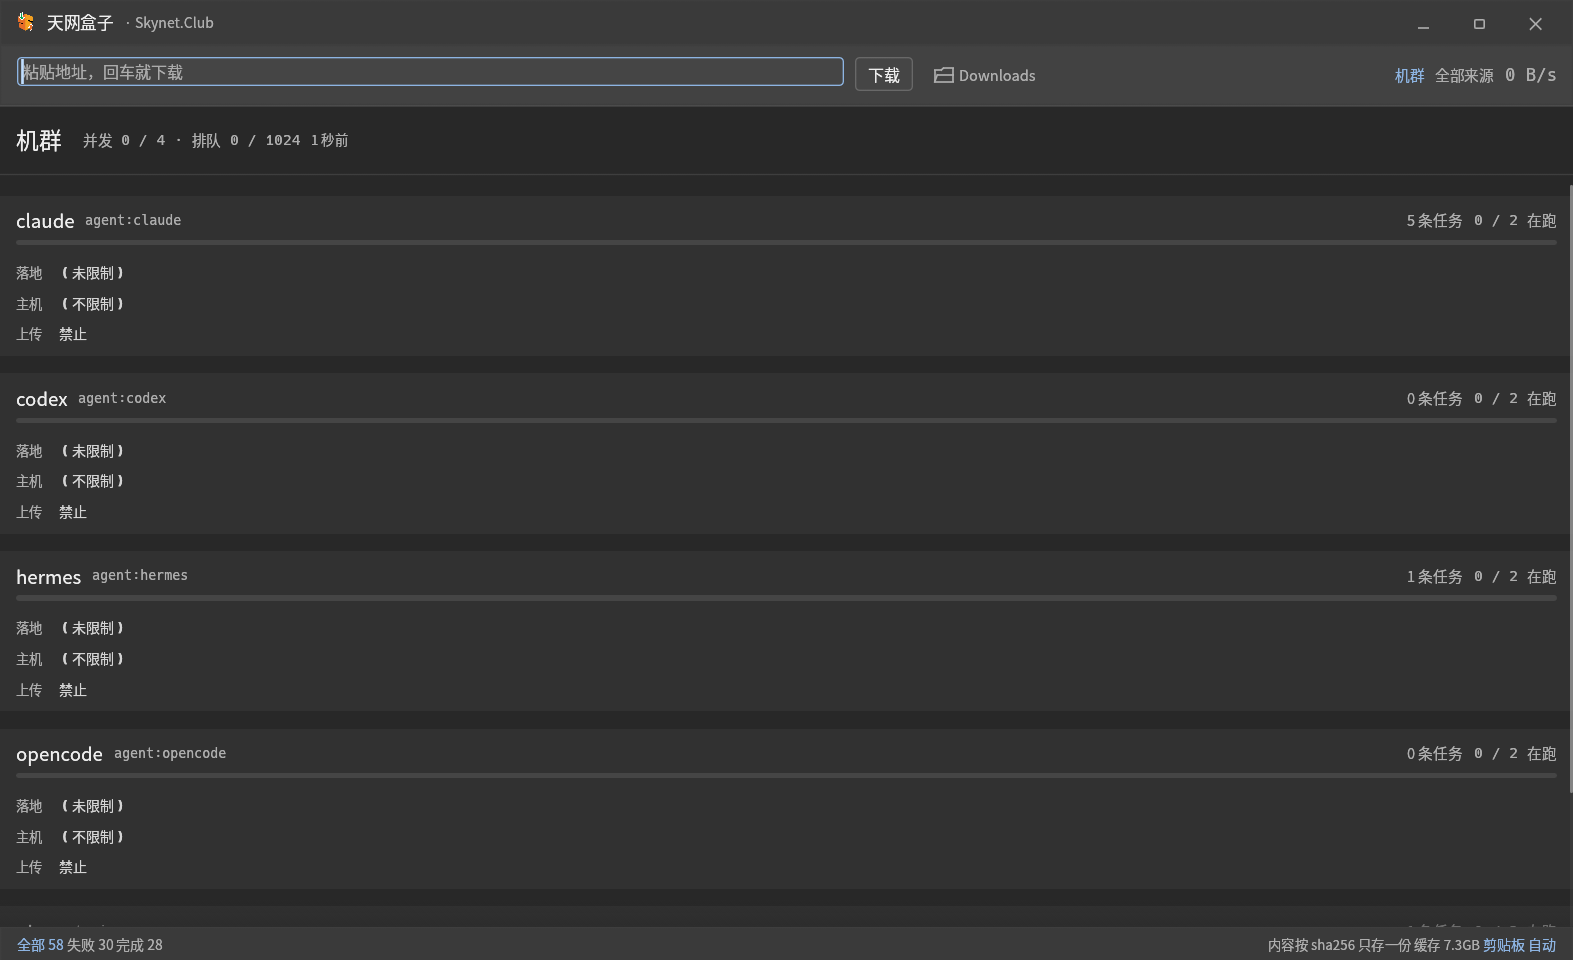
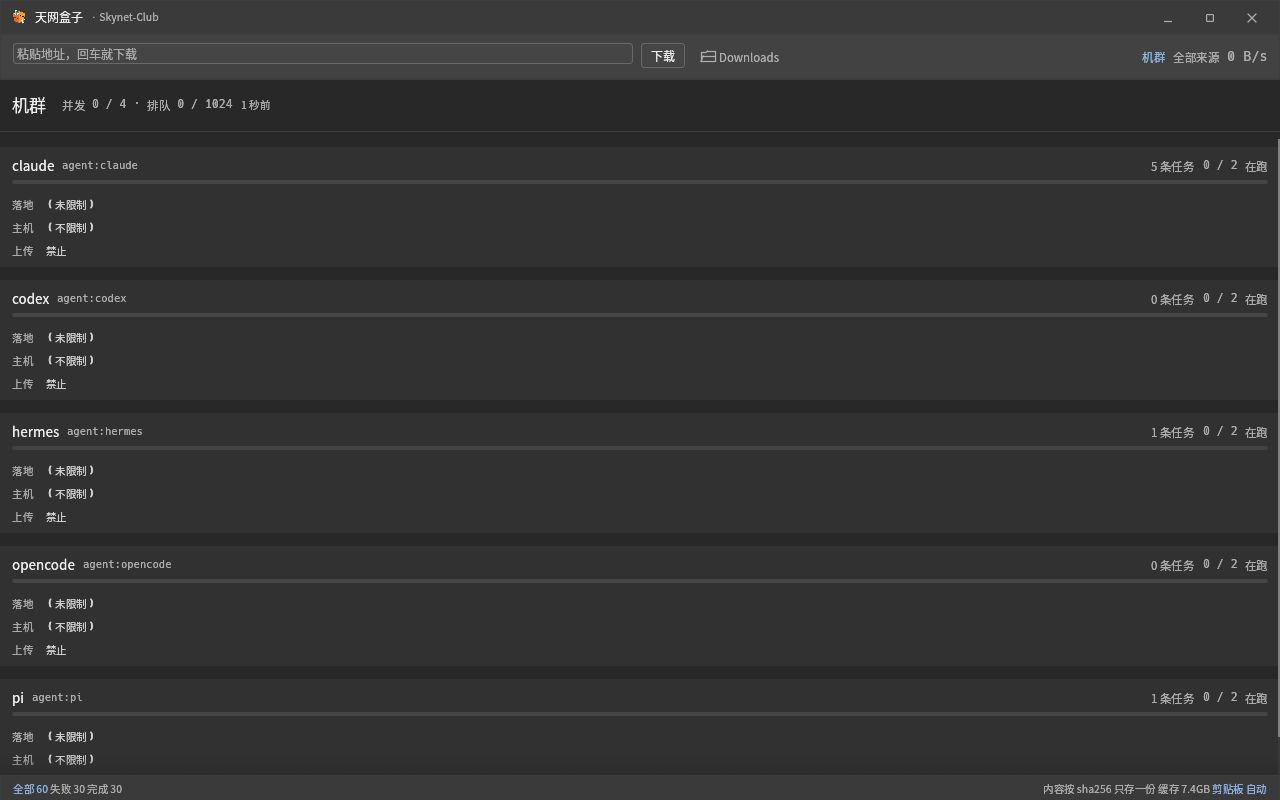
Rebrand the product as Skynet Data Box with pending Skynet-Club attribution

diff --git a/src/gui/mod.rs b/src/gui/mod.rs
@@ -799,7 +799,7 @@ impl App {
                             // 一旦可选中，egui 的文本选择逻辑就会在悬停时把光标设成 I-beam，
                             // 手形光标会被它盖掉。一个外链本来也不需要能选文字。
                             egui::Label::new(
-                                RichText::new("· Skynet.Club")
+                                RichText::new("· Skynet-Club")
                                     .size(theme::T_MICRO)
                                     .color(if hot { theme::TEXT } else { theme::FAINT }),
                             )
@@ -808,7 +808,7 @@ impl App {
                         )
                         // 官方 API，比自己 set_cursor_icon 更靠得住：交给 egui 的交互系统统一裁决
                         .on_hover_cursor(egui::CursorIcon::PointingHand)
-                        .on_hover_text("打开 skynet.club");
+                        .on_hover_text("打开 Skynet-Club GitHub");
                     // 光标要**每帧**设。egui 每帧都会把光标重置成默认值，
                     // 只在“刚悬停”那一帧设一次，下一秒就退回文本光标了。
                     if resp.hovered() {
@@ -819,7 +819,7 @@ impl App {
                         ui.ctx().request_repaint();
                     }
                     if resp.clicked() {
-                        open_url("https://skynet.club");
+                        open_url("https://github.com/Skynet-Club");
                     }
 
                     ui.with_layout(Layout::right_to_left(Align::Center), |ui| {
@@ -1002,9 +1002,9 @@ impl App {
                             )
                             .on_hover_text(match agents {
                                 Some(n) => format!(
-                                    "看这台数据面上有哪些 agent、各自能下到哪、正在跑几个（{n} 个）"
+                                    "看这台数据盒子上有哪些 agent、各自能下到哪、正在跑几个（{n} 个）"
                                 ),
-                                None => "看这台数据面上有哪些 agent、各自能下到哪、正在跑几个"
+                                None => "看这台数据盒子上有哪些 agent、各自能下到哪、正在跑几个"
                                     .to_string(),
                             });
                         if resp.hovered() {

diff --git a/src/bin/mcp.rs b/src/bin/mcp.rs
@@ -5,7 +5,7 @@
 //! / `skyget_cancel` 四个工具。
 //!
 //! 它**自己不下载**，只把调用转给本机守护进程 —— 否则每个 agent 会话
-//! 都会变成一个新的数据面，缓存、并发和台账又分裂了。
+//! 都会变成一个新的数据盒子，缓存、并发和台账又分裂了。
 //!
 //! 协议：MCP 的 stdio 传输是「一行一个 JSON-RPC 2.0 对象」。
 //! stdout 只放协议消息，日志一律走 stderr。
@@ -25,7 +25,7 @@ trait Daemon {
     fn retry(&self, id: &str) -> Result<Value, String>;
     fn pin(&self, sha256: &str, agent: &str, ttl_secs: u64, note: &str) -> Result<Value, String>;
     fn unpin(&self, sha256: &str, agent: Option<&str>) -> Result<Value, String>;
-    /// 这台数据面上有哪些 agent、各自的策略和并发（`GET /agents`）。
+    /// 这台数据盒子上有哪些 agent、各自的策略和并发（`GET /agents`）。
     fn agents(&self) -> Result<Value, String>;
     /// 当前最值得显示的活跃任务（`GET /statusline`）。
     fn active(&self, source: Option<&str>) -> Result<Value, String>;
@@ -404,7 +404,7 @@ fn tool_specs() -> Value {
         },
         {
             "name": "skyget_agents",
-            "description": "看这台数据面上有哪些 agent、各自的任务数/并发上限/落地根/允许主机/上传根。token 不会出现在返回里；用 agent token 调用时只看得到自己。",
+            "description": "看这台数据盒子上有哪些 agent、各自的任务数/并发上限/落地根/允许主机/上传根。token 不会出现在返回里；用 agent token 调用时只看得到自己。",
             "inputSchema": {"type": "object", "properties": {}}
         },
         {

diff --git a/src/daemon.rs b/src/daemon.rs
@@ -218,7 +218,7 @@ pub fn run() -> anyhow::Result<()> {
 
 /// 缓存水位线守护线程。
 ///
-/// 单机数据面的头号故障模式不是下载慢，是“磁盘被缓存吃满”。
+/// 单机数据盒子的头号故障模式不是下载慢，是“磁盘被缓存吃满”。
 /// `skyget prune` 已经能把该清的清掉，但它要人记得手动跑 —— 而 agent 不会记得。
 ///
 /// 配置（全在 daemon 侧，不由 agent 决定）：
@@ -299,11 +299,11 @@ pub enum Ensured {
 /// 再不行才直接 spawn 同目录的二进制。
 ///
 /// 这是"随 agent 启动"的核心原语：agent 一跑 `skyget …` 或 MCP 工具，
-/// 这里就把数据面带起来，不需要开机自启。
+/// 这里就把数据盒子带起来，不需要开机自启。
 ///
 /// 优先 systemd 的原因很实在：**策略与凭证来自 unit 的 EnvironmentFile**，
 /// 而不是当前这个 agent 的环境 —— 否则 agent 自己设个 `SKYGET_ALLOW_PRIVATE=1`
-/// 就能把自己拉起的数据面放宽。systemd 不可用时才退化成直启，并在返回值里说清楚。
+/// 就能把自己拉起的数据盒子放宽。systemd 不可用时才退化成直启，并在返回值里说清楚。
 pub fn ensure(base: &str) -> Ensured {
     if health_ok(base) {
         return Ensured::Already;

diff --git a/src/security.rs b/src/security.rs
@@ -1,10 +1,10 @@
 //! 出网与落地的边界。
 //!
-//! 数据面同时拥有网络和文件系统原语。人自己用时，"能在这台机器上跑程序"
+//! 数据盒子同时拥有网络和文件系统原语。人自己用时，"能在这台机器上跑程序"
 //! 基本等于"本来就能干这些"；agent 来驱动时不是这样：一个被 prompt injection
-//! 的 agent 可以让数据面去取云元数据（169.254.169.254）、内网服务，
+//! 的 agent 可以让数据盒子去取云元数据（169.254.169.254）、内网服务，
 //! 或者把文件写到 `~/.ssh/authorized_keys`。这些不是部署环境的问题，
-//! 是产品必须在进程内拒绝的事 —— 数据面不能变成 agent 的 confused deputy。
+//! 是产品必须在进程内拒绝的事 —— 数据盒子不能变成 agent 的 confused deputy。
 //!
 //! 默认值刻意分成两档：
 //! - `Policy::default()` 放行私有地址：CLI / 单测 / 本地测试服务器还要用；

diff --git a/src/bin/skyget.rs b/src/bin/skyget.rs
@@ -2453,7 +2453,7 @@ fn api_json_status(
     }
     let r = match rb.send() {
         Ok(r) => r,
-        // 随 agent 启动：agent 一调命令就把数据面带起来，不需要开机自启。
+        // 随 agent 启动：agent 一调命令就把数据盒子带起来，不需要开机自启。
         // 只对默认回环地址做这件事（SKYGET_API 指向别处时，那边由别人负责）。
         Err(e) if autostart_allowed(&base) => {
             match skyfetch::daemon::ensure(&base) {
@@ -2545,7 +2545,7 @@ fn api_json_as(
     };
     let r = match send(&client) {
         Ok(r) => r,
-        // 随 agent 启动：agent 一调命令就把数据面带起来，不需要开机自启。
+        // 随 agent 启动：agent 一调命令就把数据盒子带起来，不需要开机自启。
         Err(e) if autostart_allowed(&base) => {
             match skyfetch::daemon::ensure(&base) {
                 skyfetch::daemon::Ensured::Failed(_) => {

diff --git a/src/gui/run.rs b/src/gui/run.rs
@@ -26,7 +26,7 @@ pub fn run() -> eframe::Result {
         viewport: egui::ViewportBuilder::default()
             .with_inner_size([w0, h0])
             .with_min_inner_size([980.0, 520.0])
-            .with_title("天网盒子 · Skynet.Club")
+            .with_title("天网盒子 · Skynet-Club")
             // 自己画标题栏，才能跟天网哨兵、天网机库是同一张脸
             .with_decorations(false)
             // 稳定的 app_id 保留 `skynet-download`：Wayland/X11 靠它归并窗口，
@@ -36,7 +36,7 @@ pub fn run() -> eframe::Result {
         ..Default::default()
     };
     let result = eframe::run_native(
-        "天网盒子 · Skynet.Club",
+        "天网盒子 · Skynet-Club",
         options,
         Box::new(move |cc| {
             let mut app = App::new(cc);

diff --git a/README.md b/README.md
@@ -1,10 +1,10 @@
 <div align="center">
 
-<img src="assets/icon.png" width="96" alt="天网盒子 · Skynet Dataplane">
+<img src="assets/icon.png" width="96" alt="天网盒子 · Skynet Data Box">
 
-# 天网盒子 · Skynet Dataplane
+# 天网盒子 · Skynet Data Box
 
-**一台机器上所有 agent 共用的本机数据面。**
+**一台机器上所有 agent 共用的本机数据盒子。**
 
 可信下载与上传 · 断点续传 · 内容寻址缓存 · 公平调度 · per-agent 限权
 
@@ -43,10 +43,15 @@ skyget watch <job-id>
 `skyget` 同时提供 CLI、MCP、HTTP API 和 GUI。它们共享同一本台账、同一份缓存、
 同一个调度器和同一套权限边界。
 
+> 产品名是 **天网盒子 / Skynet Data Box**。为兼容已有安装，发行包、环境变量和
+> 二进制仍保留 `skynet-dataplane` / `skynet-dataplaned` 名称，它们不是当前的对外品牌。
+> 项目署名与品牌归属按 **Skynet-Club** 统筹，最终署名以双方共同确认为准。
+> 详情见 [AUTHORS.md](AUTHORS.md)。
+
 <details>
 <summary><strong>English summary</strong></summary>
 
-Skynet Dataplane is a local daemon for machines where multiple AI agents download,
+Skynet Data Box is a local daemon for machines where multiple AI agents download,
 upload, and reuse large data. It provides SHA-256-gated transfers, resumable partials,
 a content-addressed cache, fair scheduling, an auditable ledger, and per-agent policy.
 
@@ -104,7 +109,7 @@ feature 的意义在下游：天网机库只想装个二进制，不该被拖进
 | feature | 带进什么 | 谁用 |
 |---|---|---|
 | `http`（默认） | 直链、切片流、清单、自检、本地接口 | 机库、agent |
-| `bt` | + librqbit / tokio（magnet、.torrent） | 数据面 / 桌面端 |
+| `bt` | + librqbit / tokio（magnet、.torrent） | 数据盒子 / 桌面端 |
 | `gui` | + eframe / egui（界面） | 桌面端 |
 
 Debian 包：`packaging/build-deb.sh` 产出 `dist/skynet-dataplane_<version>_<arch>.deb`
@@ -228,7 +233,7 @@ curl -o out.bin "$(skyget resolve <URL>)"  # 零网络
 | 网盘分享页 / 迅雷 / DRM | 明确拒绝 | ❌ | ❌ | ❌ |
 
 如果你的场景是“一个人、一条命令、下一个文件”，curl 更合适；要云盘同步，rclone
-更合适；要 agent 共用、可审计、可限额的数据面，才是这个项目的位置。
+更合适；要 agent 共用、可审计、可限额的本机数据盒子，才是这个项目的位置。
 
 ## 给人用
 
@@ -388,9 +393,9 @@ agent、机库（`--as hangar`）起的任务也写同一本台账 —— 这样
 - **per-agent token 隔离**：任务、事件、控制、pin 都只能碰自己的；控制事件记录 `by`。
 - **终态 webhook**、**`prune --max-bytes`**、**CI 覆盖全部 e2e**。
 
-## 0.21：天网数据面
+## 0.21：agent 共用数据盒子
 
-名字从「天网下载器」升级为「天网数据面 / Skynet Dataplane」：下载只是入口，
+这一版从「天网下载器」升级为多 agent 共用的本机数据盒子：下载只是入口，
 产品做的是单机多 agent 的数据搬运、校验、缓存、调度和限权。
 
 - 新二进制 `skynet-dataplane` / `skynet-dataplaned`；旧名 `skynet-download` /
@@ -400,7 +405,7 @@ agent、机库（`--as hangar`）起的任务也写同一本台账 —— 这样
 
 ## 0.20：上传（PUT / tus，契约见 [docs/api-v1.md](docs/api-v1.md)）
 
-下载和上传是同一个数据面的两个方向：同一本台账、同一套事件、同一个调度器、同一套策略。
+下载和上传是同一个数据盒子的两个方向：同一本台账、同一套事件、同一个调度器、同一套策略。
 
 - `skyget upload <本地文件> <目标地址> --protocol put|tus --sha256 <hex> --as claude`
   提交给 daemon；之后 `skyget watch <id>` 跟进度。
@@ -551,7 +556,7 @@ Claude Code 配置：
 ## 结构：守护进程干活，窗口只是它的脸
 
 ```text
-skynet-dataplaned   常驻数据面：队列、重试、台账、内容缓存、上传、策略
+skynet-dataplaned   常驻数据盒子：队列、重试、台账、内容缓存、上传、策略
       ↑ 本地接口 127.0.0.1:7788          （旧名 skynet-downloadd）
 skynet-dataplane    窗口：提交、看进度、机群视图、暂停/继续/取消/删除 —— 自己不下载
                                        （旧名 skynet-download）

diff --git a/docs/release-notes-0.24.md b/docs/release-notes-0.24.md
@@ -1,8 +1,10 @@
 # 天网盒子 0.24 · 发行说明
 
 > 命令、二进制名、systemd 单元、数据目录、`app_id` 全部兼容 0.23；
-> 显示名从「天网数据面」改为「天网盒子」，旧名照常工作。
+> 对外产品名是「天网盒子 / Skynet Data Box」，旧名照常工作。
 > 契约仍是 **API v1**（`docs/api-v1.md`）。
+>
+> 项目署名与品牌归属按 **Skynet-Club** 统筹，最终署名以双方共同确认为准。
 
 ## 0.24.15：稳定性收尾
 
@@ -35,13 +37,13 @@ Windows/macOS 的目标、当前状态和技术工作见
 
 ## 这一版真正变的是什么
 
-0.24 的主线只有一句：**从「能下载」变成「一台机器上多个 agent 可以放心共用的数据面」。**
+0.24 的主线只有一句：**从「能下载」变成「一台机器上多个 agent 可以放心共用的数据盒子」。**
 
 | # | 能力 | 一句话 |
 |---|---|---|
 | 1 | **Unix socket + 内核身份** | `$SKYGET_HOME/daemon.sock`（0660），对端 uid 由内核给，**不用分发 token**；登记过的 uid 直接得到 `agent:<name>`，登记表里没有就直接 401。 |
 | 2 | **清单签名（ed25519）** | `sha256` 只证明「字节和某个 hash 一致」，签名才证明「这个 hash 是发布方给的」。`skyget keygen` / `sign` / `manifest-digest` 产签，`install` / `ensure` 验，**fail closed**。 |
-| 3 | **缓存水位线** | `SKYGET_CACHE_MAX_BYTES` 之后 daemon 自己把缓存清到低水位。单机数据面的头号故障不是下载慢，是磁盘被缓存吃满。 |
+| 3 | **缓存水位线** | `SKYGET_CACHE_MAX_BYTES` 之后 daemon 自己把缓存清到低水位。单机数据盒子的头号故障不是下载慢，是磁盘被缓存吃满。 |
 | 4 | **`skyget check` + `POST /check`** | 提交前先问「会被怎么判」，和真提交**共用同一段判定代码**，逐项给出 identity/protocol/mirrors/sha256/credential/dest/upload_source/egress。 |
 | 5 | **`skyget ensure`** | 从「下什么」升级成「这台机器该是什么样」：对的不联网不写盘，只增改不删。 |
 | 6 | **多源说谎时能救回来** | 校验不符改为逐个源单独重试。**0.23.1 线上版本在主源说谎时会整条失败**，即使旁边有健康镜像。 |
@@ -137,12 +139,13 @@ macOS 交叉检查只证明类型和 cfg 对，**不构成 0.24.15 的 macOS 发
 
 | 文件 | 大小 | sha256 |
 |---|---|---|
[2 lines of base64/hex data omitted]
 
 包里包含：`skyget` / `skynet-dataplane`（GUI）/ `skynet-dataplaned`（daemon）/
 `skynet-mcp`、systemd 用户单元、桌面入口与图标、bash/zsh/fish 补全、
 `man skyget` / `man skynet-dataplaned`，以及 `/usr/share/doc/skynet-dataplane/` 下的
-README、CHANGELOG、LICENSE、THIRD_PARTY、平台支持与路线图、DEP-5 `copyright`。
+README、MANUAL、SECURITY、CHANGELOG、LICENSE、AUTHORS、THIRD_PARTY、完整 `docs/`
+（含平台支持、路线图、ADR 与截图）和 DEP-5 `copyright`。
 
 校验和同时落在 `dist/SHA256SUMS` 与 `dist/<deb>.sha256`（`packaging/build-deb.sh`
 每次构建都会重写）。本发行说明不放进包里 —— 包不可能包含自己的哈希。

diff --git a/docs/announcement-0.24.md b/docs/announcement-0.24.md
@@ -1,7 +1,11 @@
 # 天网盒子 0.24 · 发行公告
 
-> 一台机器上多个 agent 共用的数据面：下载、上传、校验、缓存、调度、限权。
+> 一台机器上多个 agent 共用的数据盒子：下载、上传、校验、缓存、调度、限权。
 > 人类看得见，agent 用得动。
+
+> 产品名为「天网盒子 / Skynet Data Box」；`skynet-dataplane` / `skynet-dataplaned`
+> 是兼容用的内部二进制名。项目署名与品牌归属按 **Skynet-Club** 统筹，
+> 最终署名以双方共同确认为准。
 
 ## 一句话
 
@@ -17,7 +21,7 @@
   「这个 hash 是发布方给的」。`skyget keygen / sign / manifest-digest` 产签，
   `install / ensure` 验，**fail closed**。
 - **缓存水位线**：`SKYGET_CACHE_MAX_BYTES` 之后 daemon 自己把缓存清到低水位。
-  单机数据面的头号故障不是下载慢，是磁盘被缓存吃满。
+  单机数据盒子的头号故障不是下载慢，是磁盘被缓存吃满。
 - **提交前预检**：`skyget check <URL>` / `POST /check` / MCP `skyget_check`，
   不入队、不联网，告诉你「会被接受还是被拒、卡在哪一项」——
   和真提交**共用同一段判定**，所以预演不会说谎。
@@ -102,12 +106,13 @@ HTTP 契约仍是 **v1**，只做了加法（`priority`、`phase`、`/check`、`
 
 | 文件 | 大小 | sha256 |
 |---|---|---|
[2 lines of base64/hex data omitted]
 
 包里：`skyget` / `skynet-dataplane`（GUI）/ `skynet-dataplaned`（daemon）/ `skynet-mcp`、
 systemd 用户单元、桌面入口与图标、bash/zsh/fish 补全、`man skyget` / `man skynet-dataplaned`、
-`/usr/share/doc/skynet-dataplane/` 下的 README / CHANGELOG / LICENSE / THIRD_PARTY /
-平台支持与路线图 / DEP-5 copyright。
+`/usr/share/doc/skynet-dataplane/` 下的 README / MANUAL / SECURITY / CHANGELOG /
+LICENSE / AUTHORS / THIRD_PARTY / 完整 `docs/`（平台支持、路线图、ADR、截图）/
+DEP-5 copyright。
 
 ## 许可证
 

diff --git a/skill/SKILL.md b/skill/SKILL.md
@@ -1,11 +1,12 @@
 ---
 name: skyget-transfer
-description: Use for large or reliability-sensitive transfers — models, datasets, images, ISOs, build artifacts, or any download/upload that is over ~100MB, of unknown size, needs resume, needs sha256 verification, should run in the background after your shell exits, is shared between several agents on one machine, or may already be cached locally (resolve/curl turn a repeat fetch into zero network). Routes the payload through the local 天网盒子 / skynet-dataplane daemon instead of curl or wget; curl stays fine for metadata and small files. Also use when skyget itself is missing or outdated and has to be installed.
+description: Use for large or reliability-sensitive transfers — models, datasets, images, ISOs, build artifacts, or any download/upload that is over ~100MB, of unknown size, needs resume, needs sha256 verification, should run in the background after your shell exits, is shared between several agents on one machine, or may already be cached locally (resolve/curl turn a repeat fetch into zero network). Routes the payload through the local 天网盒子 / Skynet Data Box daemon (`skynet-dataplaned`; compatibility names remain) instead of curl or wget; curl stays fine for metadata and small files. Also use when skyget itself is missing or outdated and has to be installed.
 license: MIT
 ---
 # skyget-transfer
 
-Move data through the local **天网盒子 / skynet-dataplane** daemon instead of curl/wget.
+Move data through the local **天网盒子 / Skynet Data Box** daemon
+(`skynet-dataplaned`; compatibility names remain) instead of curl/wget.
 It gives you three things curl does not: **sha256 as a hard gate** (a mismatch fails the
 transfer and the file is discarded), a **content-addressed cache** (same content stored
 once per machine, so a repeat fetch is zero network), and **resume** that survives

diff --git a/docs/github-release-0.24.15.md b/docs/github-release-0.24.15.md
@@ -1,10 +1,10 @@
 <div align="center">
 
-<img src="https://raw.githubusercontent.com/Skynet-Club/skyget/main/assets/icon.png" width="104" alt="天网盒子 · Skynet Dataplane">
+<img src="https://raw.githubusercontent.com/Skynet-Club/skyget/main/assets/icon.png" width="104" alt="天网盒子 · Skynet Data Box">
 
-# 天网盒子 · Skynet Dataplane
+# 天网盒子 · Skynet Data Box
 
-### 一台机器上，所有 AI agent 共用的本机数据面
+### 一台机器上，所有 AI agent 共用的本机数据盒子
 
 **可信下载与上传 · 断点续传 · 内容寻址缓存 · 公平调度 · per-agent 限权**
 
@@ -14,6 +14,12 @@
 </div>
 
 ---
+
+> 对外产品名是 **天网盒子 / Skynet Data Box**。为兼容已有安装，发行包、环境变量和
+> 二进制仍保留 `skynet-dataplane` / `skynet-dataplaned` 名称。
+>
+> 项目署名与品牌归属按 **Skynet-Club** 统筹，最终署名以双方共同确认为准。
+> 详见 [AUTHORS.md](https://github.com/Skynet-Club/skyget/blob/main/AUTHORS.md)。
 
 ## 版本状态与平台支持
 
@@ -320,7 +326,7 @@ skyget doctor
 
 ## For English readers
 
-**Skynet Dataplane is the local dataplane every agent on a machine can share.**
+**Skynet Data Box is the local data box every agent on a machine can share.**
 
 It provides SHA-256-gated downloads and uploads, resumable transfers, a
 content-addressed cache, fair scheduling, an auditable ledger, and per-agent policy.
@@ -341,5 +347,5 @@ S3 multipart upload, and concurrency/security testing.
 ---
 
 **产物：** `skynet-dataplane_0.24.15_amd64.deb`  
[2 lines of base64/hex data omitted]
 **许可证：** MIT

diff --git a/docs/philosophy.md b/docs/philosophy.md
@@ -57,7 +57,7 @@
 
 一个被 prompt injection 的 agent，可以让"下载器"去读云元数据、写
 `~/.ssh/authorized_keys`、或者把 token 发到任意主机。这不是部署疏忽，
-是产品必须在**进程内**拒绝的事：数据面不能变成 agent 的混淆代理。
+是产品必须在**进程内**拒绝的事：数据盒子不能变成 agent 的混淆代理。
 
 - 出网：私网/回环/链路本地/CGNAT/元数据默认拒绝，**每一跳重定向重新检查**；
   云元数据是**独立开关**，不被"放开私网"顺带打开。
@@ -101,7 +101,7 @@ CLI 不带 `--as` 时保持独立下载 —— 人不该为了下一个文件被
 - **不做跨机共享缓存**：局域网分发用 BT 或 `export/import`，不发明"带 token 的公共缓存服务器"。
 - **不绕过网盘/迅雷会员/DRM**：那不是技术问题，是别人的商业模式。
 
-**因此我们拒绝了：** 为了"看起来功能多"而收编一堆不该由数据面承担的事。
+**因此我们拒绝了：** 为了"看起来功能多"而收编一堆不该由数据盒子承担的事。
 
 ## 11. 对源站礼貌：快不等于猛
 
